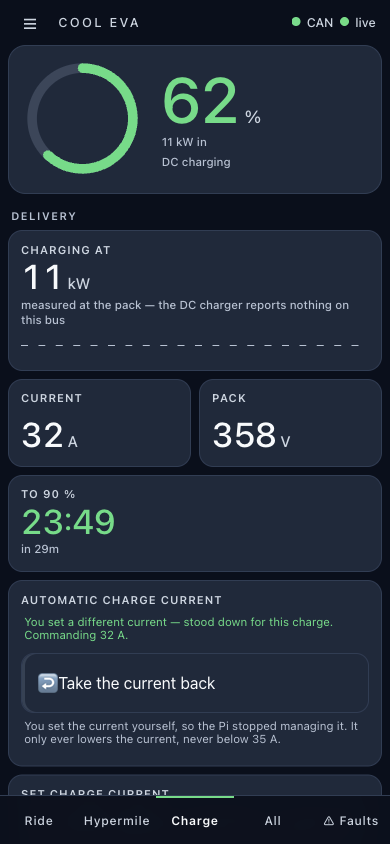
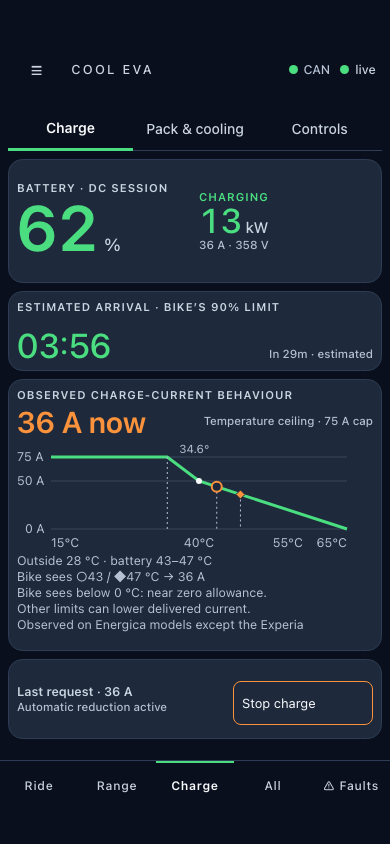
Refresh README gallery for the current riding screens

diff --git a/README.md b/README.md
@@ -6,12 +6,17 @@ It is developed on a **2021 Eva Ribelle**. Other models need checking: some disp
 
 ## What it looks like
 
-Current dashboard with sample data; coolant readings use the optional probes. Tap a screenshot to enlarge it.
+Current dashboard with synthetic sample data; coolant readings use the optional probes. Tap a screenshot to enlarge it.
 
 | Ride | Charge | Faults |
 | :-: | :-: | :-: |
-| [<img src="docs/images/dashboard-ride-dark.png" width="180" alt="Ride screen for speed, power, battery and coolant temperatures">](docs/images/dashboard-ride-dark.png) | [<img src="docs/images/dashboard-charge-dark.png" width="180" alt="Charge screen for battery percentage, charging power, current and automatic current control">](docs/images/dashboard-charge-dark.png) | [<img src="docs/images/dashboard-faults-dark.png" width="180" alt="Faults screen for named active trouble codes and diagnostic counters">](docs/images/dashboard-faults-dark.png) |
-| Speed, power, cooling. | Charge and current. | Named trouble codes. |
+| [<img src="docs/images/dashboard-ride-dark.png" width="180" alt="Ride screen with DRIVE power, the Edge limit band, battery and coolant readings">](docs/images/dashboard-ride-dark.png) | [<img src="docs/images/dashboard-charge-dark.png" width="180" alt="Charge screen with the observed current curve and a 36 A automatic request above the 35 A minimum">](docs/images/dashboard-charge-dark.png) | [<img src="docs/images/dashboard-faults-dark.png" width="180" alt="Faults summary with the whole count, expected split and two named previews">](docs/images/dashboard-faults-dark.png) |
+| Speed, power and Edge limits. | Charging, temperature curve and current request. | Counts and named trouble codes; full report one tap away. |
+
+| Cooling | Range | Cells | All |
+| :-: | :-: | :-: | :-: |
+| [<img src="docs/images/dashboard-cooling-dark.png" width="180" alt="Cooling screen with coolant, battery, motor and ambient temperatures plus fan status">](docs/images/dashboard-cooling-dark.png) | [<img src="docs/images/dashboard-range-dark.png" width="180" alt="Range screen with weakest-cell margin, cut-off timer and drive and regen current allowances">](docs/images/dashboard-range-dark.png) | [<img src="docs/images/dashboard-cells-dark.png" width="180" alt="Cells sub-tab with the complete 81-cell strip, voltage spread and cell positions">](docs/images/dashboard-cells-dark.png) | [<img src="docs/images/dashboard-all-dark.png" width="180" alt="All screen with six live readings above the filter and raw signal grid">](docs/images/dashboard-all-dark.png) |
+| Temperatures and fan status. | Weak-cell margin and current allowances. | All 81 cell voltages. | Live snapshot; raw signals below. |
 
 ## What to buy
 
